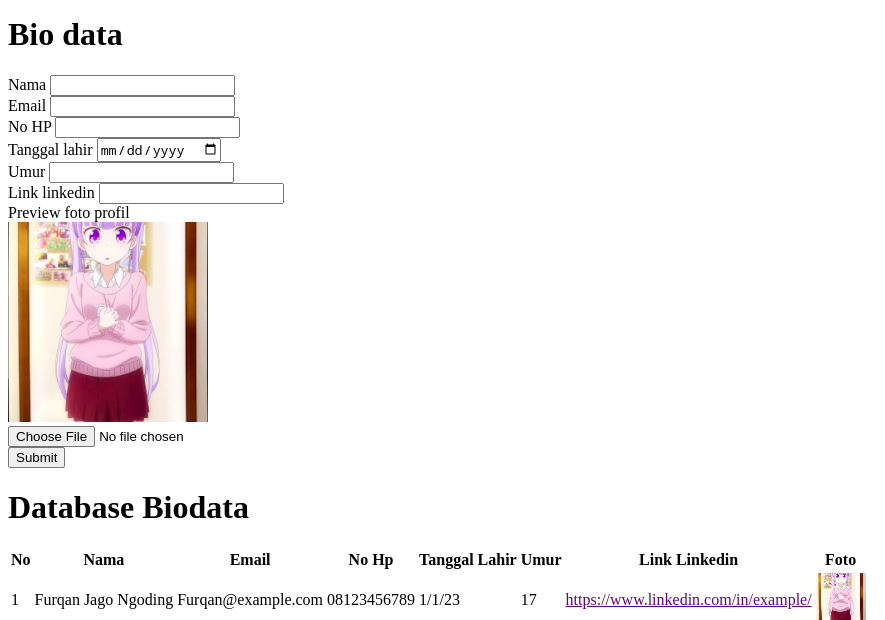
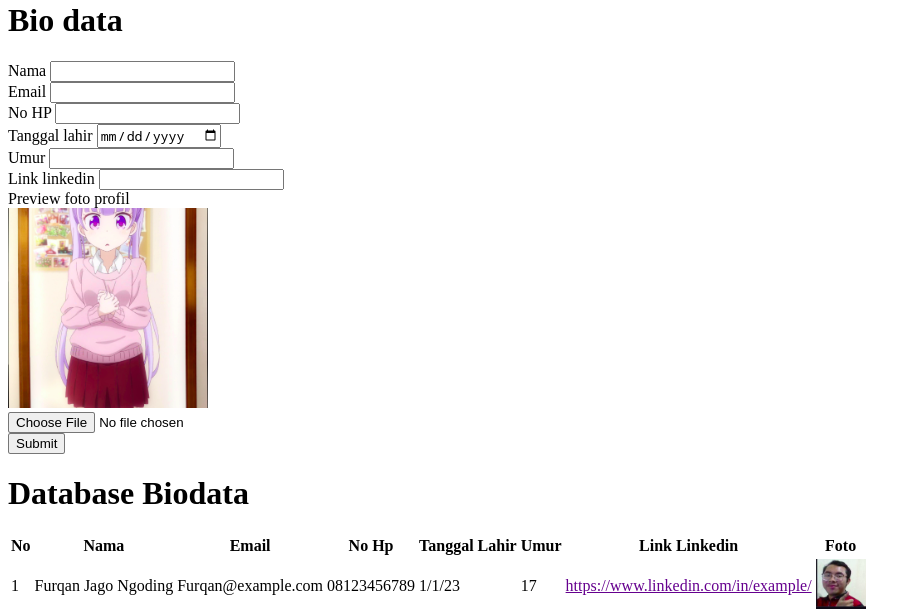
update foto

Changed region(s): [[0.0, 0.0, 0.3356, 0.8341], [0.0305, 0.865, 0.9763, 1.0], [0.0, 0.865, 0.0305, 0.9268]]

diff --git a/index.html b/index.html
@@ -75,7 +75,7 @@
               <td><a href="https://www.linkedin.com/in/example/">https://www.linkedin.com/in/example/</a></td>
               <td>
                 <img
-                  src="https://placewaifu.com/image/20"
+                  src="./foto furqan.png"
                   width="50"
                   height="50"
                 /><br />
